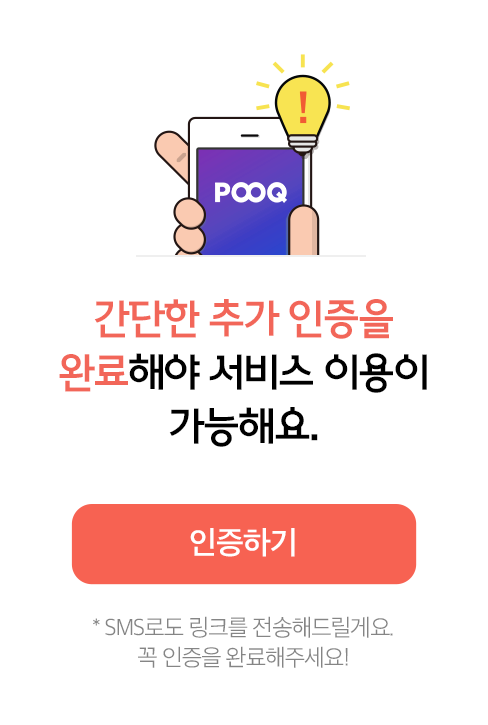
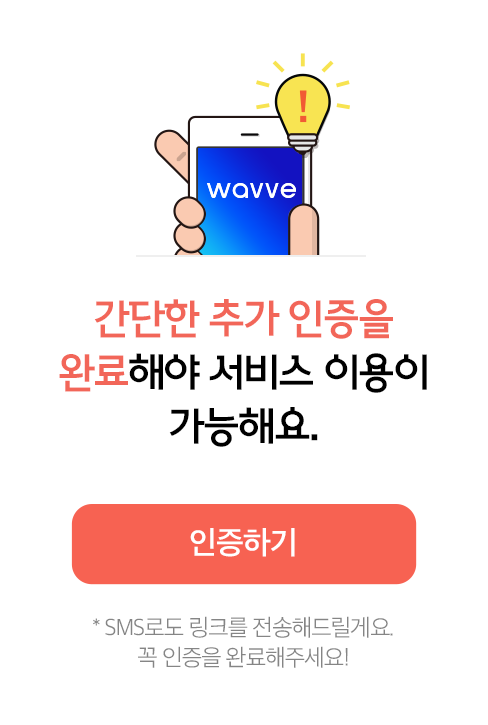
Web Contents Merge FROM 3683da68f12

diff --git a/src/client/web-contents/html/sprint/CO_UT_01_02.html b/src/client/web-contents/html/sprint/CO_UT_01_02.html
@@ -55,28 +55,28 @@
     <div class="wrap">
         <div class="container-wrap">
             <div class="container">
+                <!-- 190917 [OP002-3942] 수정_01 -->
                 <h1 class="tx-tit">
                     <i class="icon-warning-120"></i>
-                    시스템 점검 중입니다.
+                    서비스 점검 중입니다.
                 </h1>
                 <div class="tx-contents1">
-                    <p style="font-size:0.9375rem;">더욱 편리하고 안정된 서비스를 제공하기 위하여<br>
-                    T world 시스템을 점검하고 있습니다.<br>
-                    서비스 이용에 불편을 드려서 대단히 죄송합니다.</p>
+                    <p style="font-size:0.9375rem;">안정적인 T월드 서비스 제공을 위해 전체 서비스 점검 작업을 진행 합니다. <br>점검 작업 중 T월드 접속이 되지 않아, 서비스를 이용하실 수 없습니다. <br>고객님의 많은 양해 부탁 드립니다.</p>
                 </div>
                 <div class="tx-contents-tbl">
                     <div class="row">
                         <strong class="cell">중단 일시</strong>
-                        <div class="cell" style="color:#f76252;">2019년 7월 23일 (화)  03:00 ~ 03:20</div>
+                        <div class="cell" style="color:#f76252;">2019년 9월 22일 (일) 00:00 ~ 06:00</div>
                     </div>
                     <div class="row">
                         <strong class="cell">중단 범위</strong>
                         <div class="cell">
                             <ul>
-                                <li>T world(온라인 웹/모바일 웹)</li>
-                                <li>모바일 T world App.</li>
-                                <li>영문T world</li>
-                                <li>M고객센터 전체</li>
+                                <li>T world PC 웹 /모바일 웹 <br>(T world, T 멤버십, 로밍)</li>
+                                <li>모바일 App.</li>
+                                <li>영문 T world</li>
+                                <li>글로벌 T world App.</li>
+                                <li>M 고객센터</li>
                             </ul>
                         </div>
                     </div>
@@ -85,6 +85,7 @@
                     <p style="text-decoration:underline;">통화품질 관련 상담 및 분실/습득, 로밍 상담 업무는 고객센터를 통해 가능하며, 잔여기본통화, 요금조회, 데이터 충전/선물 관련 업무는 버튼식 ARS를 이용해주세요.</p>
                     <p style="margin-top:0.375rem;">고객센터 : (무료) 114 / 080-011-6000 (유료) 1599-0011</p>
                 </div>
+                <!-- // 190917 [OP002-3942] 수정_01 -->
             </div>
         </div>
     </div>

diff --git a/src/client/web-contents/html/sprint/RO_3.3.html b/src/client/web-contents/html/sprint/RO_3.3.html
@@ -52,19 +52,23 @@
                     <div class="cont-box noborder">
                         <!-- offering -->
                         <div class="tod-offer-wrap tc">
+                            <!-- 190910 [OP002-3769] 수정_01 -->
                             <p class="offer-tit">
-                                POOQ 계속 이용하고<br>
+                                wavve 계속 이용하고<br>
                                 <span class="tod-txcolor6">5,000코인</span> 받아가세요!
                             </p>
+                            <!-- //190910 [OP002-3769] 수정_01 -->
                             <div class="offer-img pt20">
                                 <img src="/img/product/offer-img-coin5000.png" alt="">
                             </div>
                             <p class="offer-txt-3 mt20"><span class="tx-medium">Coin이란?</span></p>
+                            <!-- 190910 [OP002-3769] 수정_02 -->
                             <p class="offer-txt-1 mt10">
-                               POOQ에서 최신 영화 및 <br>
+                               wavve에서 최신 영화 및 <br>
                                VOD 콘텐츠를 <br>
                                자유롭게 구매하실 수 있는 포인트입니다.  
                             </p>
+                            <!-- //190910 [OP002-3769] 수정_02 -->
                         </div>
                         <!-- //offering -->
                     </div>

diff --git a/src/client/web-contents/html/sprint/RO_3.2.html b/src/client/web-contents/html/sprint/RO_3.2.html
@@ -61,15 +61,17 @@
                                 <img src="/img/product/offer-img-coupon100.png" alt="">
                             </div>
                            
+                            <!-- 190910 [OP002-3769] 수정_01 -->
                             <p class="offer-txt-1 mt20">
-                                지금 해지하시면<br> POOQ 이용요금 월 100원 프로모션 혜택을<br> 더 이상 받으실 수 없습니다!  
+                                지금 해지하시면<br> wavve 이용요금 월 100원 프로모션 혜택을<br> 더 이상 받으실 수 없습니다!  
                             </p>
                             <p class="offer-txt-2 mt20">
                                 <span class="tx-medium">
-                                    POOQ의 Quick VOD, 알고 계신가요?<br>
+                                    wavve의 Quick VOD, 알고 계신가요?<br>
                                     본방 시작 5분만에 업로드된다는 사실!
                                 </span>
                             </p>
+                            <!-- //190910 [OP002-3769] 수정_01 -->
                         </div>
                         <!-- //offering -->
                     </div>

diff --git a/src/client/web-contents/html/sprint/RO_3.1.1.html b/src/client/web-contents/html/sprint/RO_3.1.1.html
@@ -58,7 +58,7 @@
                             </div>
                             <div class="offer-list mt30">
                                 <dl>
-                                    <dt>POOQ 앤 데이터의 3가지 즐거움</dt>
+                                    <dt>wavve 앤 데이터의 3가지 즐거움</dt><!-- 190910 [OP002-3769] 수정_01 -->
                                     <dd>
                                         <p class="tod-rblue-wrap">
                                             <span class="num">01</span>
@@ -68,7 +68,7 @@
                                     <dd>
                                         <p class="tod-rblue-wrap">
                                             <span class="num">02</span>
-                                            <span class="txt">22만 편의 Quick VOD</span>
+                                            <span class="txt">20만 편의 Quick VOD</span><!-- 190916 [OP002-3769] 수정_01 -->
                                         </p>
                                      </dd>
                                      <dd>

diff --git a/src/client/web-contents/html/sprint/RO_3.1.2.html b/src/client/web-contents/html/sprint/RO_3.1.2.html
@@ -58,7 +58,7 @@
                             </div>
                             <div class="offer-list mt30">
                                 <dl>
-                                    <dt>POOQ 콘텐츠 팩의 2가지 즐거움</dt>
+                                    <dt>wavve 콘텐츠 팩의 2가지 즐거움</dt><!-- 190910 [OP002-3769] 수정_01 -->
                                     <dd>
                                         <p class="tod-rblue-wrap">
                                             <span class="num">01</span>
@@ -68,7 +68,7 @@
                                     <dd>
                                         <p class="tod-rblue-wrap">
                                             <span class="num">02</span>
-                                            <span class="txt">22만 편의 Quick VOD</span>
+                                            <span class="txt">20만 편의 Quick VOD</span><!-- 190916 [OP002-3769] 수정_01 -->
                                         </p>
                                     </dd>
                                 </dl>
